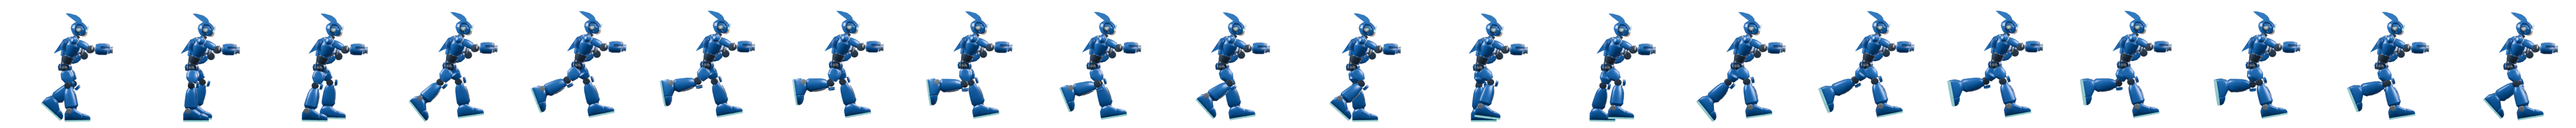
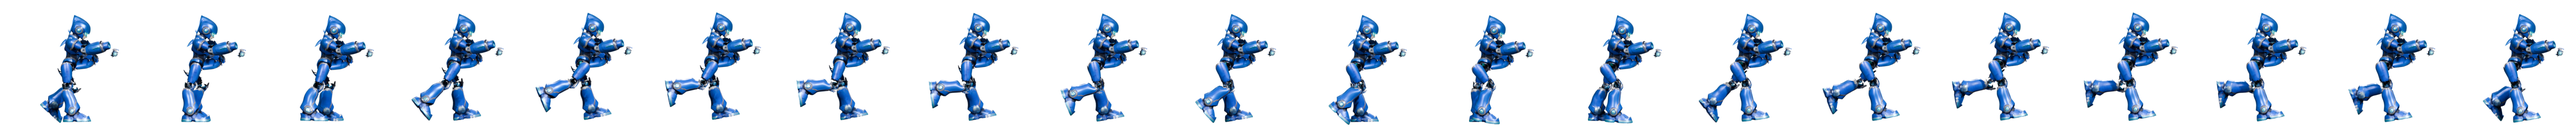
[claude] char: Rodin-generated hero from approved character master
Replaces the hand-sculpted clay hero with a model generated directly
from the approved docs/mock renders (Hyper3D Rodin free trial, one job).
Armature refitted to the new anatomy with inherited bone rolls, armour-
island connectivity binding, 42% back-fin reduction. Same camera/pose/
anchor contract; textures from generation (no palette grade). All node
suites green; shell-based Blender audits pending skinned-mesh adaptation.
ASSET_VER=2026072003. Not deployed.

Changed region(s): [[0.0, 0.0938, 1.0, 0.9688]]

diff --git a/index.html b/index.html
@@ -167,7 +167,7 @@ function manageBgm(){            // 毎フレーム呼ぶ（状態に応じてBG
 // 各エンティティ＝{fw,fh,scale,ax,ay, anims:{name:{src,frames,fps}}}。
 // anim毎に1枚の横ストリップPNG（コマを横一列）。素材配置後にここを記述する。
 // ★キャッシュ無効化: 素材PNGを差し替えたら ASSET_VER を変えると、ブラウザ/CDNが必ず新素材を取得する。
-const ASSET_VER = '2026071804';
+const ASSET_VER = '2026072003';
 function _av(s){ return s + (s.indexOf('?')<0 ? '?v=' : '&v=') + ASSET_VER; }
 const ASSETS = {
   // 現在のBlender全身リグを、ローカル実機テスト用にそのまま書き出した3Dレンダー。
@@ -975,7 +975,7 @@ const RUN_CYCLE_DISTANCE=64;
 const HERO3D_ENABLED=!(typeof globalThis!=='undefined' && globalThis.location &&
   /(?:^|[?&])hero=legacy(?:&|$)/.test(globalThis.location.search||''));
 // export_game_sprites.py が同じレンダーから生成する砲口座標。実データは素材検査後に埋め込む。
-const PLAYER3D_MUZZLE={"idle":[[179.0889,145.3695],[178.2556,145.9871],[177.4705,146.5497],[176.7897,147.0228],[176.2633,147.3795],[175.9307,147.6009],[175.8169,147.6759],[175.9307,147.6009],[176.2633,147.3795],[176.7897,147.0228],[177.4705,146.5497],[178.2556,145.9871],[179.0889,145.3695],[179.9122,144.7376],[180.6704,144.1362],[181.3143,143.6102],[181.8038,143.2006],[182.1095,142.9404],[182.2134,142.8513],[182.1095,142.9404],[181.8038,143.2006],[181.3143,143.6102],[180.6704,144.1362],[179.9122,144.7376]],"shoot":[[200.9185,94.4645],[196.4451,99.1412],[198.536,96.9883],[200.0745,95.3919],[200.9185,94.4645],[200.9185,94.4645],[200.9185,94.4645],[200.9185,94.4645]],"charge":[[200.9762,100.7273],[201.0196,100.9625],[201.051,101.1348],[201.0624,101.1979],[201.051,101.1348],[201.0196,100.9625],[200.9762,100.7273],[200.932,100.4922],[200.8993,100.3202],[200.8872,100.2573],[200.8993,100.3202],[200.932,100.4922]],"run":[[74.2389,79.8692],[71.0413,82.3312],[70.0437,89.0359],[74.231,97.1181],[79.3487,108.6717],[87.9438,121.4269],[99.2358,132.7346],[111.1806,141.0669],[121.4018,146.3471],[128.0711,149.0495],[133.9824,151.2395],[127.6216,151.2951],[118.8631,149.1505],[110.6719,141.8369],[99.0736,132.5066],[87.9438,121.4269],[79.0261,109.3092],[73.2755,97.5816],[70.6015,87.8855],[70.0659,81.2607]],"runshoot":[[224.1437,100.1171],[220.6302,100.7275],[218.8948,100.5967],[220.7731,97.644],[220.6192,95.7018],[220.3699,94.9814],[220.12,95.2046],[219.9653,96.0914],[219.9654,97.3478],[220.12,98.3457],[224.1343,100.1171],[220.6082,100.7275],[218.8822,100.5967],[220.7731,97.644],[220.6192,95.7018],[220.3699,94.9814],[220.12,95.2046],[219.9653,96.0914],[219.9654,97.3478],[220.12,98.3457]],"runcharge":[[223.4194,102.7943],[219.9061,103.4048],[218.1707,103.2739],[220.049,100.3213],[219.8951,98.3791],[219.6456,97.6586],[219.3957,97.8818],[219.241,98.7686],[219.241,100.025],[219.3957,101.0229],[223.41,102.7943],[219.8841,103.4048],[218.1581,103.274],[220.049,100.3213],[219.8951,98.3791],[219.6456,97.6586],[219.3957,97.8818],[219.241,98.7686],[219.241,100.025],[219.3957,101.0229]],"jump":[[85.5049,144.0227],[102.0391,149.1371],[124.8352,154.7089],[141.9381,154.9372],[135.3369,155.3253],[125.3617,155.592],[114.8804,154.8533],[103.0518,152.4178],[108.6454,154.5063],[115.4707,156.998]],"jumpshoot":[[204.2118,97.0609],[205.1541,95.3334],[205.1541,95.3334],[205.1541,95.3334],[205.1541,95.3334],[205.1541,95.3334],[205.1541,95.3334],[205.1541,95.3334],[205.7823,96.9039],[204.2118,97.1552]]};
+const PLAYER3D_MUZZLE={"idle":[[177.0215,163.2643],[175.9825,163.8596],[175.0066,164.3982],[174.1627,164.8482],[173.5117,165.1856],[173.1008,165.3942],[172.9604,165.4647],[173.1008,165.3942],[173.5117,165.1856],[174.1627,164.8482],[175.0066,164.3982],[175.9825,163.8596],[177.0215,163.2643],[178.0515,162.6511],[179.003,162.0638],[179.8135,161.5474],[180.4312,161.1435],[180.8176,160.8863],[180.949,160.798],[180.8176,160.8863],[180.4312,161.1435],[179.8135,161.5474],[179.003,162.0638],[178.0515,162.6511]],"shoot":[[210.7004,106.2473],[206.5981,112.0933],[208.5448,109.4154],[209.9409,107.4138],[210.7004,106.2473],[210.7004,106.2473],[210.7004,106.2473],[210.7004,106.2473]],"charge":[[210.1684,113.4474],[210.1799,113.7107],[210.1877,113.9035],[210.1905,113.974],[210.1877,113.9035],[210.1799,113.7107],[210.1684,113.4474],[210.1562,113.1841],[210.1467,112.9914],[210.1431,112.9209],[210.1467,112.9914],[210.1562,113.1841]],"run":[[63.423,82.7201],[60.2666,85.2205],[59.2815,92.2721],[63.531,100.9201],[68.8548,113.0884],[77.8346,126.3118],[89.633,137.8103],[102.0962,146.0519],[112.7521,151.0684],[119.7201,153.486],[125.769,155.4979],[119.3615,155.5499],[110.3531,153.5692],[101.7187,146.5058],[89.5489,137.3766],[77.8346,126.3118],[68.4449,113.9501],[62.4165,101.7535],[59.6615,91.4934],[59.1727,84.3792]],"runshoot":[[235.469,110.9919],[231.9753,111.5892],[230.2522,111.4503],[232.1305,108.4977],[231.9643,106.5634],[231.6951,105.8562],[231.4256,106.0927],[231.2588,106.9878],[231.2588,108.2442],[231.4256,109.2338],[235.4596,110.9919],[231.9533,111.5892],[230.2396,111.4503],[232.1305,108.4977],[231.9643,106.5634],[231.6951,105.8562],[231.4256,106.0927],[231.2588,106.9878],[231.2588,108.2442],[231.4256,109.2338]],"runcharge":[[234.5294,114.1387],[231.0356,114.7357],[229.3124,114.5965],[231.1907,111.6438],[231.0246,109.7099],[230.7555,109.0031],[230.4861,109.24],[230.3193,110.1353],[230.3193,111.3918],[230.4861,112.3811],[234.52,114.1387],[231.0136,114.7357],[229.2999,114.5965],[231.1907,111.6438],[231.0246,109.7099],[230.7555,109.0031],[230.4861,109.24],[230.3193,110.1353],[230.3193,111.3918],[230.4861,112.3811]],"jump":[[70.8593,158.6146],[88.8877,163.5669],[114.0146,168.8908],[133.0654,170.28],[126.0113,172.0219],[115.1051,173.2955],[103.5014,173.1277],[90.3864,170.5642],[96.1457,171.8802],[104.2799,175.6779]],"jumpshoot":[[214.0271,108.887],[214.9694,107.1594],[214.9694,107.1594],[214.9694,107.1594],[214.9694,107.1594],[214.9694,107.1594],[214.9694,107.1594],[214.9694,107.1594],[215.5976,108.7299],[214.0271,108.9813]]};
 let playerRenderInfo={source:'none',anim:null,frame:null,chargeOverlay:false};
 
 function player3DRunFrame(distance){

diff --git a/HANDOFF.md b/HANDOFF.md
@@ -1,5 +1,18 @@
 # HANDOFF — Claude ↔ Codex 協働ログ（新しい順に上へ追記）
 
+## 2026-07-20 — [claude] hero-gen: 承認済みキャラマスターから3D主人公を再生成（ローカル反映・デプロイ待ち）
+- 経緯: ユーザー「作画からやり直し」→ 調査で判明: 承認済みレンダー（`docs/mock/character-master.png`＋三面図・7/15承認）は正しく、壊れていたのは絵→3D粘土の手作業翻訳工程。承認画像から直接3D生成する方式へ転換（ユーザー承認済・トライアル枯渇時停止の条件付き）。
+- 生成: Hyper3D Rodin 無料トライアル（BlenderMCPアドオン・MAIN_SITE/Sketchティア・1ジョブのみ消費）。入力=三面図3方向＋マスター3/4（`blender/hero/gen_inputs/`）。出力25,781頂点・テクスチャ付き→ `blender/hero/gen_v1/cobalt_hero_gen_v1.blend`。
+- リグ接続（`blender/hero/gen_v1/build_gen_rig.py`・再現可能）:
+  - 旧アーマチュアCOBALT_HERO_RIGを流用し、メッシュ実測ランドマーク（股下/膝/足首/両腕クラスタ）へ骨をリフィット。**ボーンロールは旧リグから継承**（ポーズテーブルはローカル軸前提のため必須）。左腕は右腕と非対称（体幹密着）なので独自クラスタでフィット。
+  - スキニング: Bone Heatは非多様体で失敗するため**接続成分（装甲パーツ）単位のバインド**を自作: シード付きBFSでリム分割→3,671アイランドを最近チェーン平均距離で投票→関節ジュエルは遠位骨へ強制。ブレンドは同一チェーン内のみ。
+  - 背中フィンはマスター比で過大だったため付け根へ42%縮小（`FIN_SCALE`）。orientation/scale はメッシュデータ直接変換（背景モードの ops transform_apply は回転が乗らない罠あり・要注意）。
+  - 書き出し: `export_game_sprites_gen.py`（カメラ契約・ポーズ・アンカー計算は既存と同一。パレット上書きなし＝生成テクスチャ使用・AgX/露出0.55）。
+- 検証: validate_game_sprites 8/124 OK、player3dcheck 43/43、posecheck 48/48、harness 30/30。実機（`?v=2026072003`）で idle=戦闘構え／run=前傾ワイドストライド／shoot=バスター水平＋砲口一致／jump 全て新キャラで表示・console error 0。
+- **既知の課題**: (a) 右肘の小ジュエル1アイランドが腕曲げで数px浮く（実寸ほぼ不可視・次回対応） (b) 肩・腰に微小な継ぎ目シュレッド (c) 旧シェル前提の audit_motion_cycles / validate_motion_readability はスキンメッシュに未対応＝今回未実行（レンダー検証＋既存node検査で代替。監査のメッシュ対応は別タスク）。
+- 旧素材への復帰: `git checkout 8f975f7 -- assets index.html`（旧3D素材一式）。旧リグ資産は rig_v1/ に不変。
+- 公開: **未デプロイ**（検収待ち）。次: ユーザー実操作評価 → OKなら全改修（走り+立ち+新キャラ）をまとめてデプロイ。
+
 ## 2026-07-18 — [claude] run-wide-stride: 本家MMX実測準拠の脚周期へ書き直し（ローカル反映・デプロイ待ち）
 - ユーザー指示: 「どんどん作画が変になってるからロックマンの動きを参考にしたい」→ 実物リサーチ承認後「立ち姿、動作のポーズなどきちんと作って欲しい」。
 - 現物接地（G2相当）: SNES版ロックマンX の走り10コマ実スプライトを取得しコマ分解（`~/Documents/gazoubiruda/cobalt-bolt-reference/`・Capcom素材のため公開リポジトリ外に保管）。実測: シルエット幅/高さ比が1周期で 0.59→1.03 と振れる＝**低く長い前後シザー**が本質。脚は高く上げず、蹴り出しで後脚ほぼ伸展・前脚は低い前方リーチを保持、上下バウンスは僅少。run-athletic (7e5b194) 後も旧 RUN_PHASES のままの脚は 0.57→0.73 に留まり「膝上げ足踏み」読みが残存していた。
